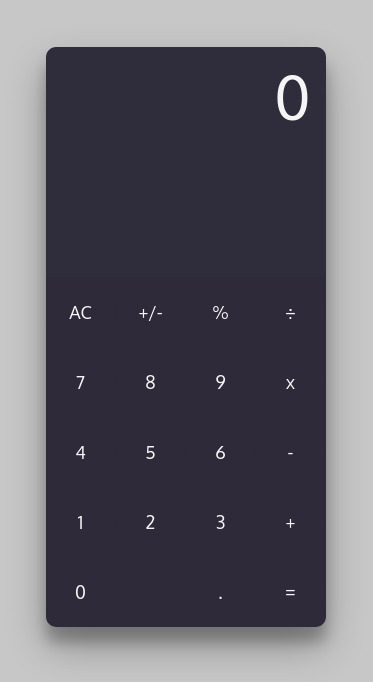
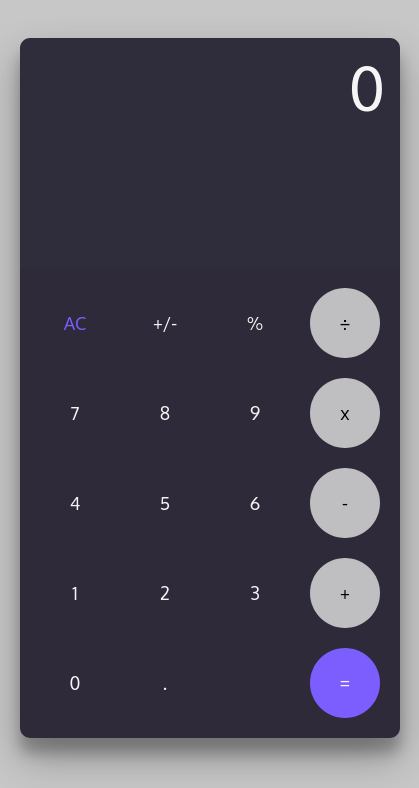
Fix: deployment and update README

diff --git a/src/components/key/Key.js b/src/components/key/Key.js
@@ -13,8 +13,20 @@ const Key = (props) => {
     handleToKey(display);
   };
 
+  const whichKey = () => {
+    if (op) {
+      return 'calKey opColor';
+    } else if (ac) {
+      return 'calKey acKey';
+    } else if (eq) {
+      return 'calKey eqKey';
+    } else {
+      return 'calKey';
+    }
+  }
+
   return (
-    <button type="button" className={op ? 'calKey opColor' : ac ? 'calKey acKey' : eq ? 'calKey eqKey' : 'calKey'} onClick={leftUpState} onKeyPress={leftUpState}>
+    <button type="button" className={whichKey()} onClick={leftUpState} onKeyPress={leftUpState}>
       {display}
     </button>
   );

diff --git a/src/components/key/Key.scss b/src/components/key/Key.scss
@@ -3,23 +3,23 @@
   height: 70px;
   border-radius: 50%;
   text-align: center;
-  background-color: #2F2A3A;
-  
+  background-color: #2f2a3a;
+
   color: whitesmoke;
   border: 0;
   font-size: large;
 }
 
 .opColor {
- background-color: #BFBFC1;
- color: black;
+  background-color: #bfbfc1;
+  color: black;
 }
 
 .eqKey {
-  background-color: #7C5EFE;
+  background-color: #7c5efe;
   color: whitesmoke;
 }
 
 .acKey {
-  color: #7C5EFE;
+  color: #7c5efe;
 }
